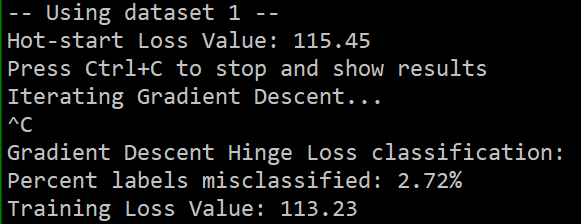
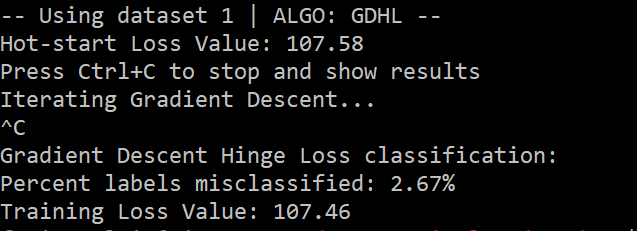
Improved terminal printing interface

Changed region(s): [[0.0, 0.0, 0.9914, 1.0], [0.9914, 0.9688, 1.0, 1.0]]

diff --git a/src/LeastSquares.py b/src/LeastSquares.py
@@ -19,6 +19,7 @@ be compared to the closed-form Least Squares solution
 """
 
 DATASET = 1 # Select dataset [1,6]
+ALGO = 'GDLS'
 
 from Dataset import Dataset
 import numpy as np
@@ -64,7 +65,9 @@ if __name__ == "__main__":
     num_dataset = DATASET
     data = Dataset(num_dataset) # Retrieve dataset object
 
-    print("-- Using dataset {} --".format(num_dataset))
+    # Print Header
+    print("/// Least Squares Training via Closed Form ///")
+    print("-- Using dataset {} | Closed Form Solution --".format(num_dataset))
 
     # Use helper functions to get percent error
     w = trainLSOrig(data.X_tr, data.y_tr) # Get weights with training set
@@ -73,7 +76,6 @@ if __name__ == "__main__":
     loss_tr = get_loss_MSE(data.X_tr, data.y_tr, w) # Compute cost func
 
     # Output results
-    print("Original Least Squares classification:")
     print("Percent labels misclassified: {}%".format(perr.round(2)))
     print("Training Loss Value: {}".format(loss_tr.round(2)))
 
@@ -103,15 +105,21 @@ if __name__ == "__main__":
     loss_r = get_loss_MSE(X_r, data.y_tr, w) # Compute cost func
 
     # Output results
-    print("Least Squares with Rank-{} approximation:".format(rank))
+    print("\n/// Least Squares Training via Rank-{} Approximation ///".format(rank))
     print("Percent labels misclassified: {}%".format(perr.round(2)))
     print("Training Loss Value: {}".format(loss_r.round(2)))
 
 
 
-    # Compare Gradient Descent with Closed Form
-    print("\n-- Iterating Gradient Descent --")
-    logger = IterReg('GDLS',num_dataset) # Init logger
+    ## Compare Gradient Descent with Closed Form
+    # Initialize IterReg feature
+    algo = ALGO
+    logger = IterReg(algo,num_dataset) # Init logger
+
+    # Print Header
+    print("\n /// Least Squares Training with Gradient Descent ///")
+    print("-- Using dataset {} | ALGO: {} --".format(num_dataset, algo))
+
     # Load weights
     try:
         w = logger.load() # Load saved weights
@@ -120,6 +128,7 @@ if __name__ == "__main__":
     loss_gd = get_loss_MSE(data.X_tr, data.y_tr, w) # Comp cost fun
     print("Hot-start Loss Value: {}".format(loss_gd.round(2)))
     print("Press Ctrl+C to stop and show results")
+    print("Iterating...")
     tau = 1/(np.linalg.norm(data.X_tr,2)**2) # Step size
     while((loss_gd-loss_tr) > 1): # While not converged
         try:

diff --git a/src/SVM.py b/src/SVM.py
@@ -17,7 +17,8 @@ from HingeLoss import get_loss_HL
 from LeastSquares import classify
 from LeastSquares import get_perr
 
-DATASET = 3
+DATASET = 5
+ALGO = 'GDSVM'
 
 LAMB_ARR = (1e-6,19.95,19.95,1.6e-5,1.4e-6,19.95) # From CV Ridge Reg
 
@@ -42,9 +43,13 @@ if __name__ == "__main__":
     # Initialize a dataset
     num_dataset = DATASET
     data = Dataset(num_dataset) # Retrieve dataset object
+    # Initialize IterReg feature
+    algo = ALGO
+    logger = IterReg(algo,num_dataset) # Init logger GDSVM
 
-    print("-- Using dataset {} --".format(num_dataset))
-    logger = IterReg('GDSVM',num_dataset) # Init logger GDSVM
+    # Print Header
+    print("-- Using dataset {} | ALGO: {} --".format(num_dataset, algo))
+
     # Load weights
     try:
         w = logger.load() # Load saved weights
@@ -55,7 +60,7 @@ if __name__ == "__main__":
     print("Hot-start Loss Value: {}".format(loss_gd.round(2)))
     print("Using lambda: {}".format(lamb))
     print("Press Ctrl+C to stop and show results")
-    print("Iterating Gradient Descent...")
+    print("Iterating...")
     tau = 1/(np.linalg.norm(data.X_tr, 2)**2) # Step size
     descent = 1 # Init
     tol = 1e-8 # Convergence tolerance

diff --git a/src/HingeLoss.py b/src/HingeLoss.py
@@ -23,6 +23,7 @@ from LeastSquares import get_perr
 from LeastSquares import classify
 
 DATASET = 1
+ALGO = 'GDHL'
 
 """ Helper Functions """
 # Compute the loss function value Hinge Loss
@@ -49,9 +50,13 @@ if __name__ == "__main__":
     # Initialize a dataset
     num_dataset = DATASET
     data = Dataset(num_dataset) # Retrieve dataset object
+    # Initialize IterReg feature
+    algo = ALGO
+    logger = IterReg(algo,num_dataset) # Init logger GDHL
 
-    print("-- Using dataset {} --".format(num_dataset))
-    logger = IterReg('GDHL',num_dataset) # Init logger GDHL
+    # Print Header
+    print("-- Using dataset {} | ALGO: {} --".format(num_dataset, algo))
+
     # Load weights
     try:
         w = logger.load() # Load saved weights
@@ -60,7 +65,7 @@ if __name__ == "__main__":
     loss_gd = get_loss_HL(data.X_tr, data.y_tr, w) # Comp cost fun
     print("Hot-start Loss Value: {}".format(loss_gd.round(2)))
     print("Press Ctrl+C to stop and show results")
-    print("Iterating Gradient Descent...")
+    print("Iterating...")
     tau = 1/(np.linalg.norm(data.X_tr, 2)**2) # Step size
     descent = 1 # Init
     tol = 1e-6 # Convergence tolerance

diff --git a/README.md b/README.md
@@ -141,9 +141,9 @@ The Support Vector Machine problem was solved similarly to the Hinge Loss one vi
 | :----:  |  :----:  |  :----:  | :-----: |
 |   1     |  2.67 %  |  2.93 %  |       1e-6 |
 |   2     |  0.00 %  |  0.00 %  |      19.95 |
-|   3     |  2.34 %  |  1 %  |      19.95 |
-|   4     |  7.76 %  |  1 %  |     1.6e-5 |
-|   5     | 13.93 %  |  1 %  |     1.4e-6 |
+|   3     |  2.34 %  |  2.22 %  |      19.95 |
+|   4     |  7.76 %  |  11.06 %  |     1.6e-5 |
+|   5     | 13.93 %  |  18.21 %  |     1.4e-6 |
 |   6     | 36.36 %  | 36.36 %  |      19.95 |
 
 
